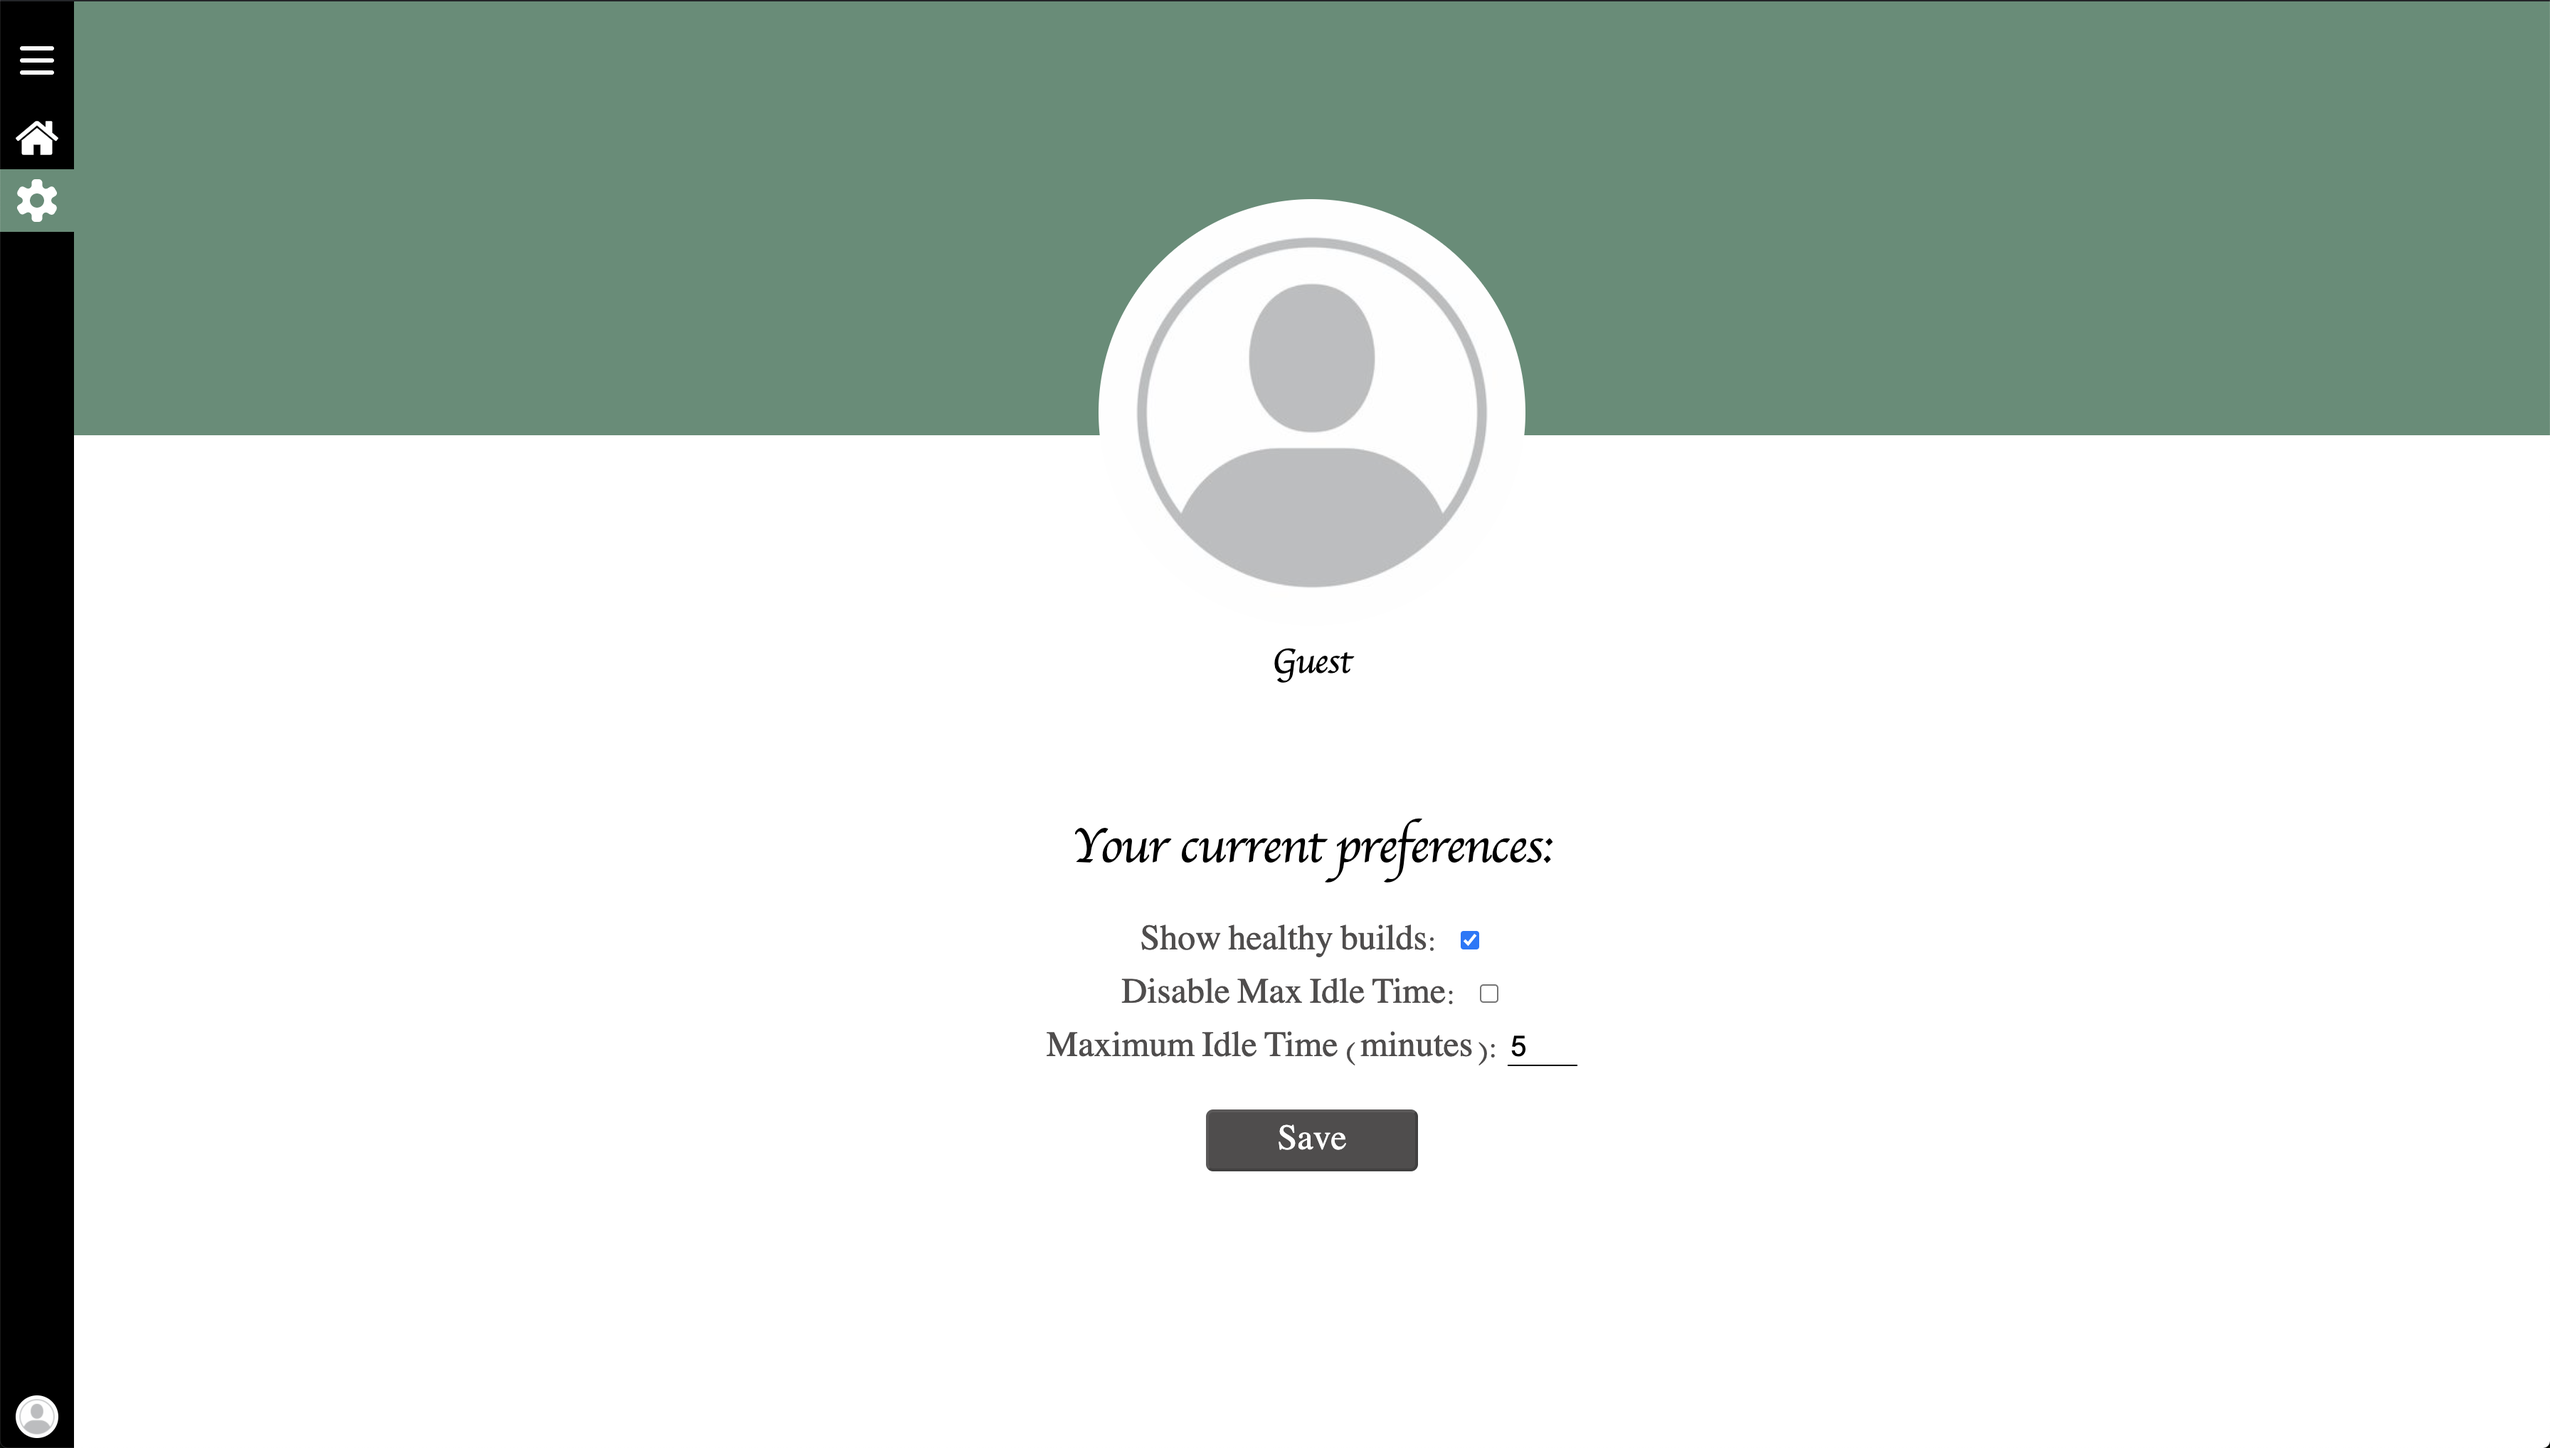
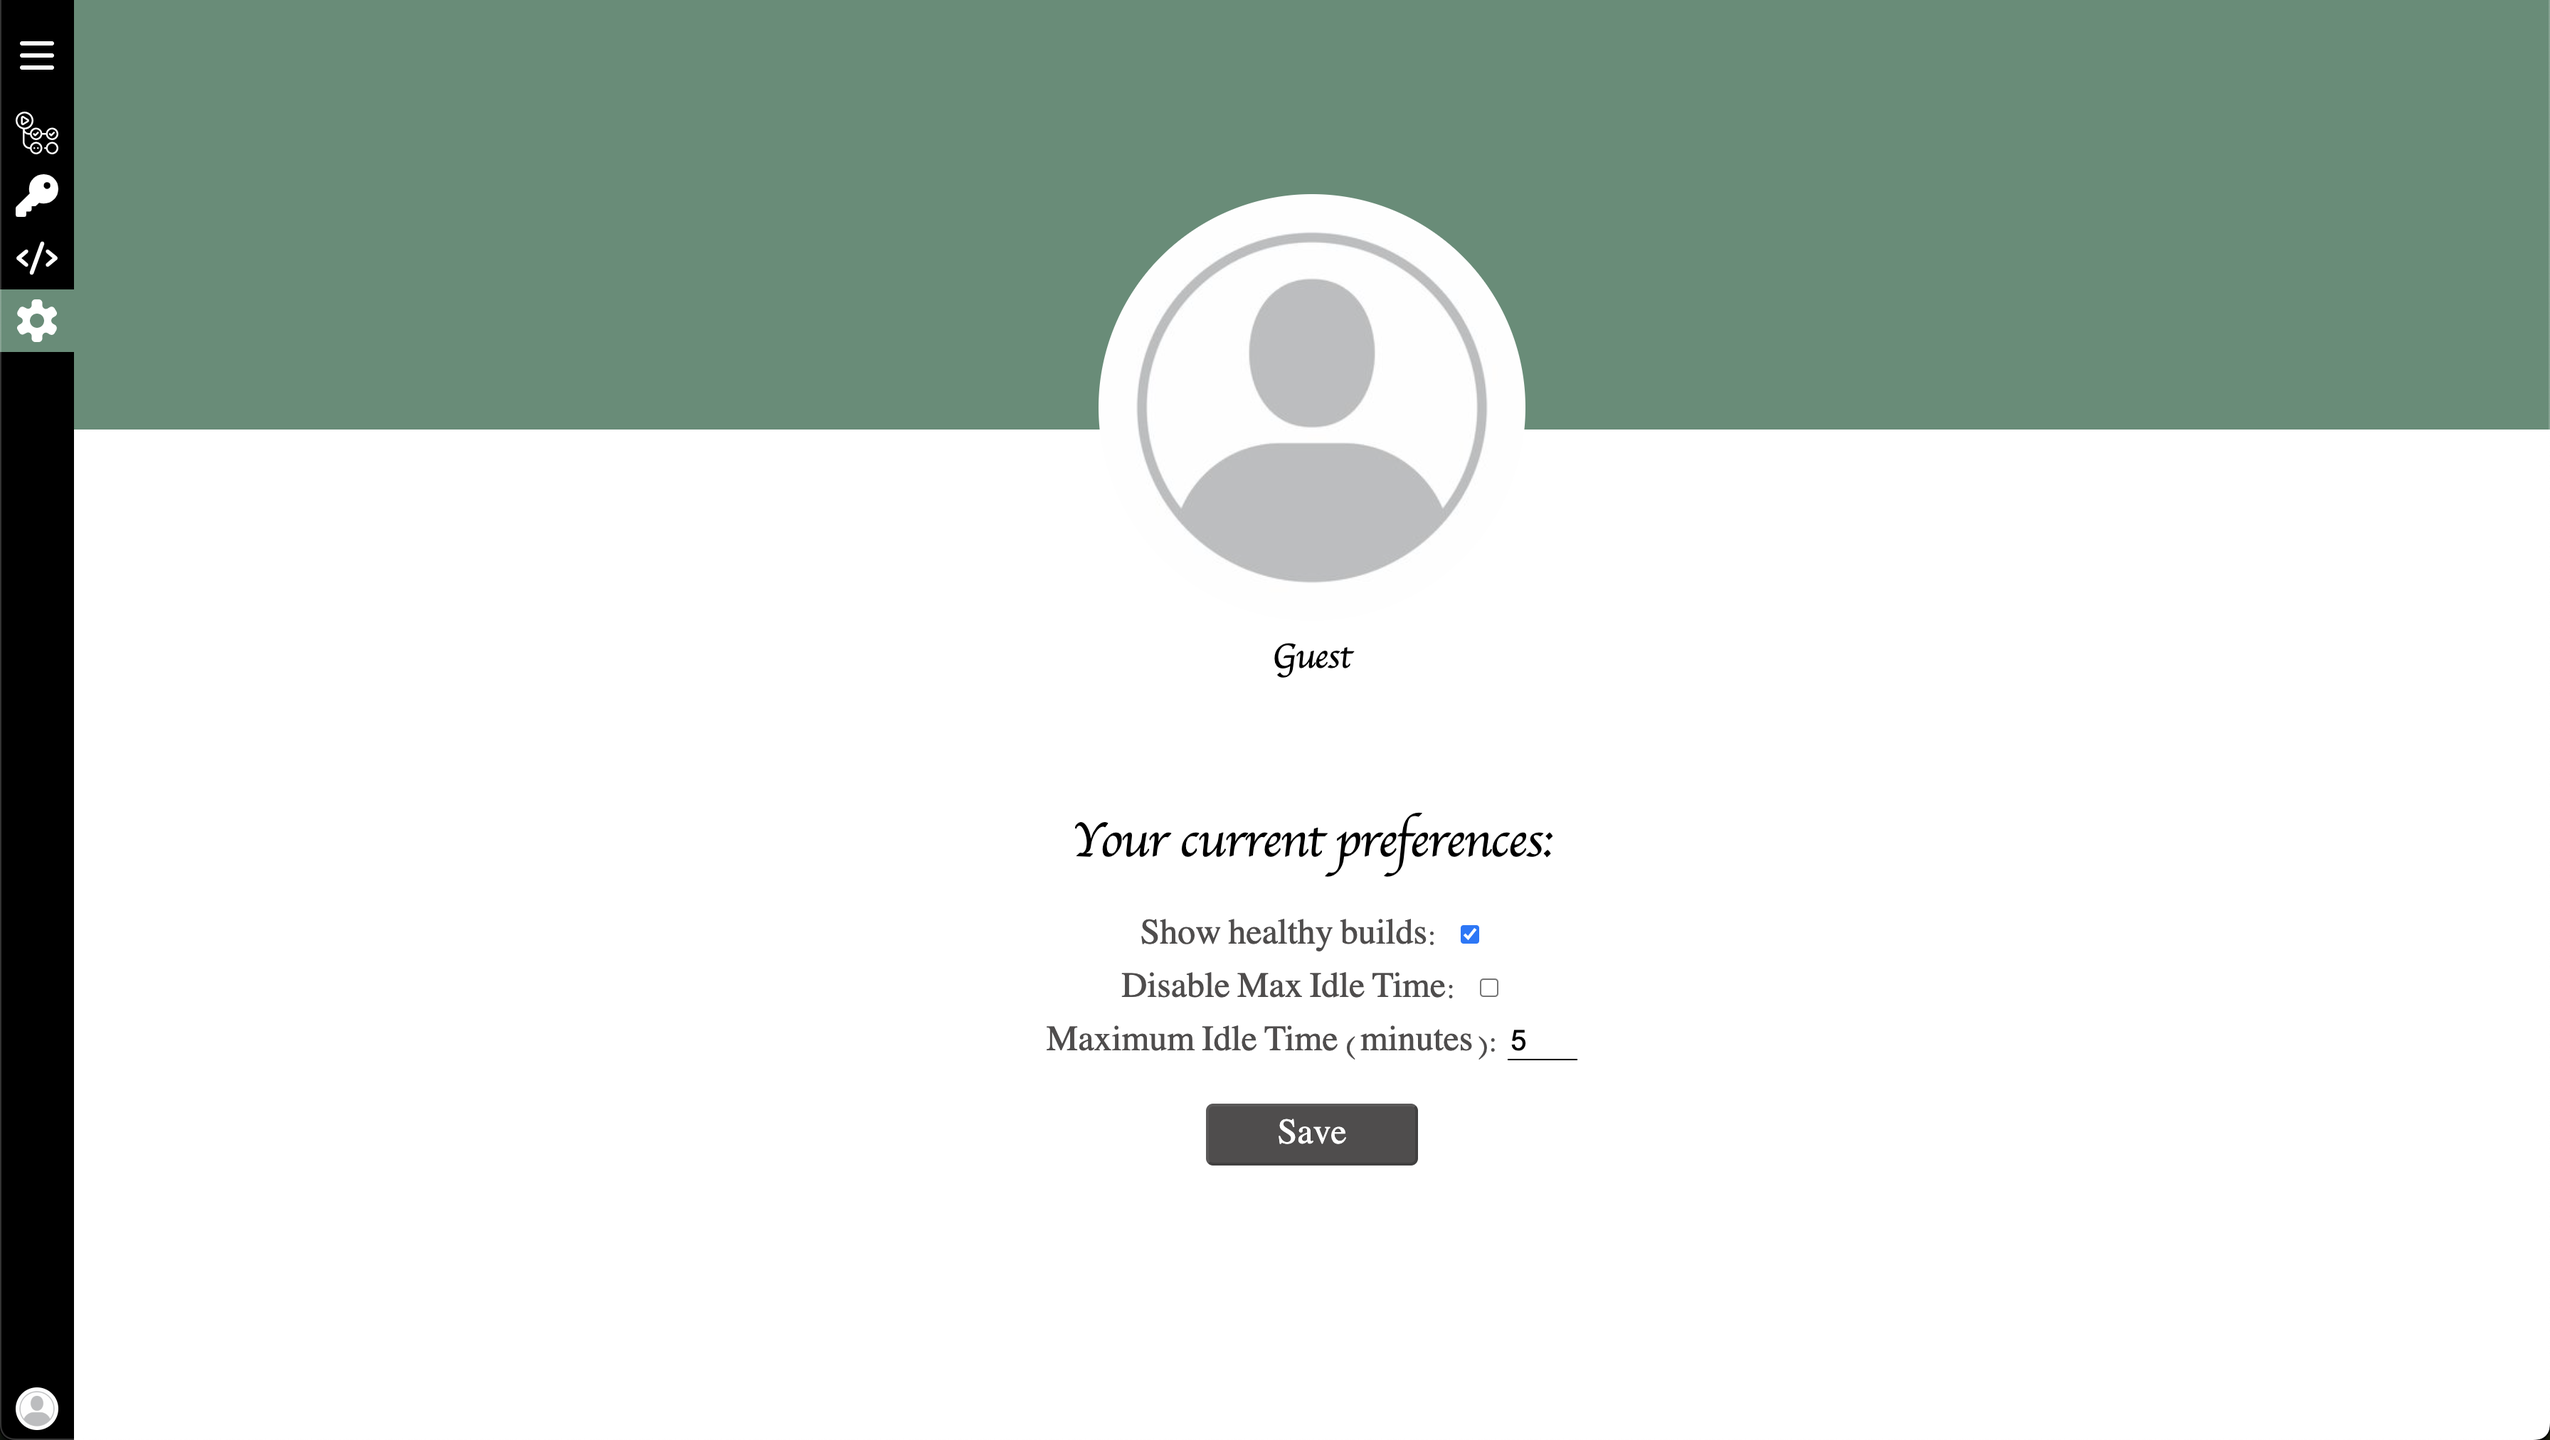
docs: Update sample screenshots

diff --git a/README.md b/README.md
@@ -118,9 +118,9 @@ follow [this link](https://docs.github.com/en/developers/apps/building-oauth-app
 
 - `http://localhost:<host machine port>`
 
-![UI dashboard sample 1](https://raw.githubusercontent.com/otto-de/gitactionboard/main/doc/sample1.png)
-
-![preference sample 1](https://raw.githubusercontent.com/otto-de/gitactionboard/main/doc/preference-sample1.png)
+<img src="https://raw.githubusercontent.com/otto-de/gitactionboard/main/doc/sample1.png" alt="sample1" width="49%">
+<img src="https://raw.githubusercontent.com/otto-de/gitactionboard/main/doc/sample3.png" alt="sample3" width="49%"> <img src="https://raw.githubusercontent.com/otto-de/gitactionboard/main/doc/sample2.png" alt="sample2" width="49%">
+<img src="https://raw.githubusercontent.com/otto-de/gitactionboard/main/doc/login-sample1.png" alt="login-sample1" width="49%"> <img src="https://raw.githubusercontent.com/otto-de/gitactionboard/main/doc/preference-sample1.png" alt="preference-sample1" width="49%">
 
 ##### UI Dashboard Configurations
 
